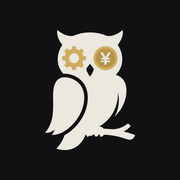
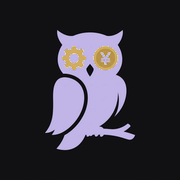
フクリ：アイコンの白を薄紫に
Claude-Session: https://claude.ai/code/session_018AqJEQpyqVYXog4wvTo1vf

Changed region(s): [[0.25, 0.1667, 0.75, 0.8333]]

diff --git a/fukuri/index.html b/fukuri/index.html
@@ -11,10 +11,10 @@
 <meta name="apple-mobile-web-app-status-bar-style" content="black">
 <meta name="apple-mobile-web-app-title" content="フクリ">
 <meta name="theme-color" content="#070908">
-<link rel="apple-touch-icon" href="apple-touch-icon.png?v=2">
-<link rel="apple-touch-icon" media="(prefers-color-scheme: dark)" href="apple-touch-icon-dark.png?v=2">
-<link rel="icon" href="icon-192.png?v=2">
-<link rel="manifest" href="manifest.webmanifest?v=1">
+<link rel="apple-touch-icon" href="apple-touch-icon.png?v=3">
+<link rel="apple-touch-icon" media="(prefers-color-scheme: dark)" href="apple-touch-icon-dark.png?v=3">
+<link rel="icon" href="icon-192.png?v=3">
+<link rel="manifest" href="manifest.webmanifest?v=2">
 <style>
 :root{
   --bg:#eef2f7;--bg2:#dfe7f1;--ink:#0d1520;--sub:#5d6b7c;--mute:#8b97a6;
